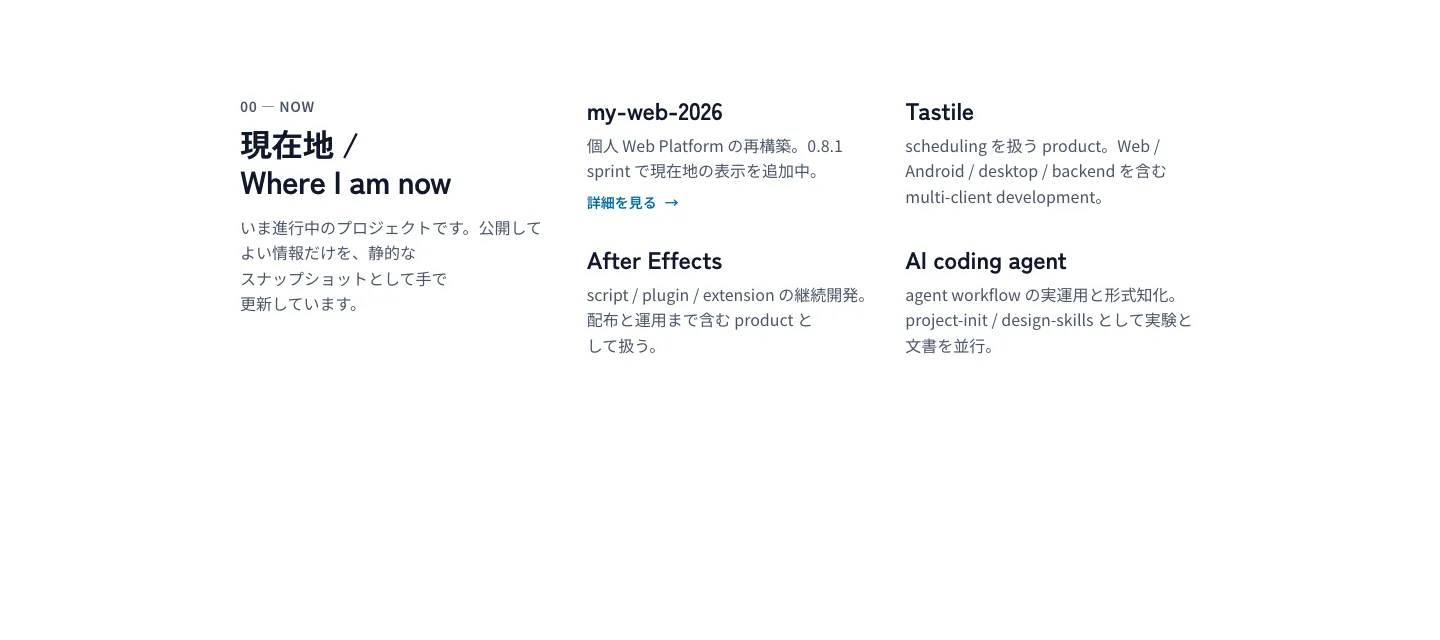
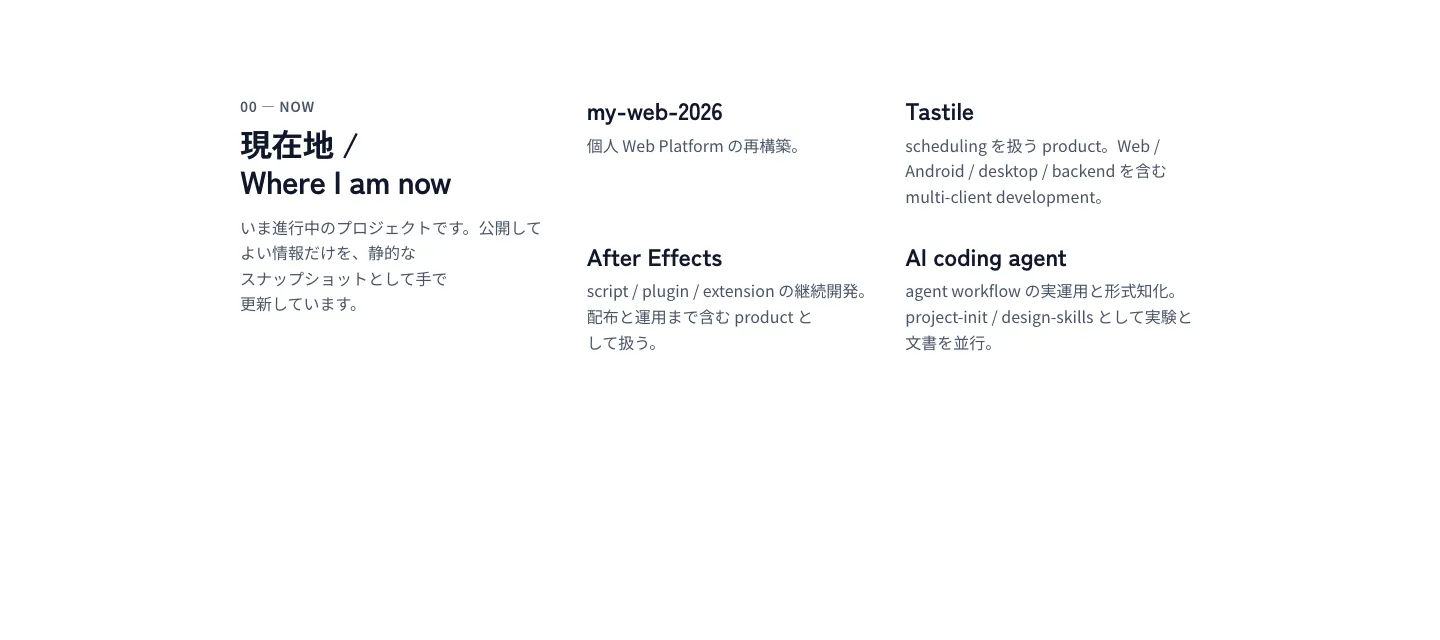
fix(home): capture the shipped snapshot and tighten the section copy
The verification capture rendered the `Populated` design fixture, so the
committed WebP files showed a "詳細を見る" link the shipped snapshot does
not publish. A `Shipped` story now renders `CURRENT_PROJECTS` itself, the
capture points at it, and the three artefacts are regenerated from it.

The fail-closed sentence read "現在、公開中の進行中のプロジェクトは…"
with two の in a row; it is now "現在、公開している進行中のプロジェクト
はありません。". The stale-content review record is bound to the
expression text, so the edited sentence carries the edited expression.

The e2e link assertion only accepted internal paths, which contradicted
the snapshot contract (`isPublishableHref` also allows `https://`). It
now accepts both and still refuses the protocol-relative `//…`.

diff --git a/e2e/home-current-projects.spec.ts b/e2e/home-current-projects.spec.ts
@@ -12,9 +12,10 @@ import { CURRENT_PROJECTS } from '../src/home/current/projects';
  * The link assertion is written so it holds in BOTH honest states:
  * the snapshot today publishes no link (the owner has not confirmed a
  * public destination), and a future snapshot may publish an internal
- * path. What must never happen is a link that leaves the site or
- * carries an unusable scheme, so every anchor the section renders has
- * to be an internal path with a visible label.
+ * path or an `https://` URL. What must never happen is a
+ * protocol-relative link or an unusable scheme, so every anchor the
+ * section renders has to be an `https://` URL or an internal path,
+ * each with a visible label.
  */
 test.describe('home — current projects section (Issue #316)', () => {
 	test('publishes the section with its own heading', async ({ page }) => {
@@ -44,7 +45,7 @@ test.describe('home — current projects section (Issue #316)', () => {
 		}
 	});
 
-	test('publishes only internal links, each with a visible label', async ({ page }) => {
+	test('publishes only publishable links, each with a visible label', async ({ page }) => {
 		await page.goto('/');
 
 		const links = page.locator('[data-testid="home-current-projects"] a');
@@ -53,7 +54,12 @@ test.describe('home — current projects section (Issue #316)', () => {
 			const link = links.nth(index);
 			const href = await link.getAttribute('href');
 			expect(href, 'every published link carries an href').toBeTruthy();
-			expect(href?.startsWith('/'), `"${href}" is an internal path`).toBe(true);
+			// The same rule the snapshot applies (`isPublishableHref`): an
+			// `https://` URL or an internal path, never the protocol-relative
+			// `//…` that would leave the site under a scheme the page does
+			// not choose.
+			const publishable = href?.startsWith('https://') === true || href?.startsWith('/') === true;
+			expect(publishable, `"${href}" is an https URL or an internal path`).toBe(true);
 			expect(href?.startsWith('//'), `"${href}" is not protocol-relative`).toBe(false);
 			// The visible label is the accessible name (WCAG 2.2 SC 2.5.3).
 			await expect(link).not.toBeEmpty();
@@ -68,7 +74,7 @@ test.describe('home — current projects section (Issue #316)', () => {
 		const empty = page.locator('[data-testid="home-current-projects-empty"]');
 		if (CURRENT_PROJECTS.length === 0) {
 			await expect(empty).toHaveCount(1);
-			await expect(empty).toContainText('現在、公開中の進行中のプロジェクトはありません。');
+			await expect(empty).toContainText('現在、公開している進行中のプロジェクトはありません。');
 			await expect(page.locator('[data-testid="home-current-projects-list"]')).toHaveCount(0);
 		} else {
 			await expect(empty).toHaveCount(0);

diff --git a/src/home/current/CurrentProjects.stories.tsx b/src/home/current/CurrentProjects.stories.tsx
@@ -1,15 +1,21 @@
 import type { Meta, StoryObj } from '@storybook/react';
 import { CurrentProjects } from './CurrentProjects';
+import { CURRENT_PROJECTS } from './projects';
 import type { CurrentProject } from './projects';
 
 /**
  * CurrentProjects stories (Issue #316).
  *
- * Three states, because the section has three honest shapes:
+ * Four states, because the section has four honest shapes:
  *
+ *   - `Shipped`    — the snapshot the route actually hands the page
+ *     (`CURRENT_PROJECTS`). This is the state the verification capture
+ *     (`scripts/capture-home-current-projects.mjs`) renders, so the
+ *     committed screenshots show what a reader receives today rather
+ *     than a design fixture.
  *   - `Populated`  — the ordinary case: a handful of projects, one of
- *     them with a published link. This is the state the verification
- *     capture (`scripts/capture-home-current-projects.mjs`) renders.
+ *     them with a published link. A design surface for the linked
+ *     shape the shipped snapshot does not exercise yet.
  *   - `Empty`      — nothing publishable. The section publishes ONE
  *     sentence, not an empty list, so a reader can tell "nothing is
  *     published" from "the page failed".
@@ -18,9 +24,10 @@ import type { CurrentProject } from './projects';
  *     public destination), so the section has to read well without a
  *     link in every row.
  *
- * The fixtures are literals in this file, not the committed snapshot
- * (`CURRENT_PROJECTS`): a preview is a design surface, and it must
- * not change because the owner edited the snapshot.
+ * The `Populated` / `Empty` / `Linkless` fixtures are literals in this
+ * file: a design surface must not change because the owner edited the
+ * snapshot. `Shipped` is the deliberate exception — it is the only
+ * story whose content is the snapshot itself.
  */
 const POPULATED: CurrentProject[] = [
 	{
@@ -63,6 +70,10 @@ const meta = {
 
 export default meta;
 type Story = StoryObj<typeof meta>;
+
+export const Shipped: Story = {
+	render: () => <CurrentProjects projects={CURRENT_PROJECTS} />,
+};
 
 export const Populated: Story = {
 	render: () => <CurrentProjects projects={POPULATED} />,

diff --git a/src/home/current/CurrentProjects.tsx b/src/home/current/CurrentProjects.tsx
@@ -24,7 +24,7 @@ import { selectPublicProjects } from './projects';
  * -----------
  * The component receives whatever it is handed and publishes only
  * what `selectPublicProjects` allows. An empty set is a published
- * sentence ("現在、公開中の進行中のプロジェクトはありません。"), never
+ * sentence ("現在、公開している進行中のプロジェクトはありません。"), never
  * an empty list and never an invented placeholder — a reader must be
  * able to tell "nothing is published" from "the page failed".
  *
@@ -102,7 +102,7 @@ export function CurrentProjects({ projects = [] }: CurrentProjectsProps) {
 								lineHeight: '1.6',
 							})}
 						>
-							現在、公開中の進行中のプロジェクトはありません。
+							現在、公開している進行中のプロジェクトはありません。
 						</p>
 					) : (
 						<ul

diff --git a/src/home/current/CurrentProjects.test.tsx b/src/home/current/CurrentProjects.test.tsx
@@ -48,14 +48,14 @@ describe('CurrentProjects', () => {
 
 	it('publishes one meaningful sentence instead of an empty list', () => {
 		const html = render({ projects: [] });
-		expect(html).toContain('現在、公開中の進行中のプロジェクトはありません。');
+		expect(html).toContain('現在、公開している進行中のプロジェクトはありません。');
 		expect(html).not.toContain('<ul');
 		expect(html).not.toContain('<li');
 	});
 
 	it('treats a missing snapshot as an empty publication', () => {
 		const html = render({});
-		expect(html).toContain('現在、公開中の進行中のプロジェクトはありません。');
+		expect(html).toContain('現在、公開している進行中のプロジェクトはありません。');
 	});
 
 	it('renders no link when a project has none', () => {
